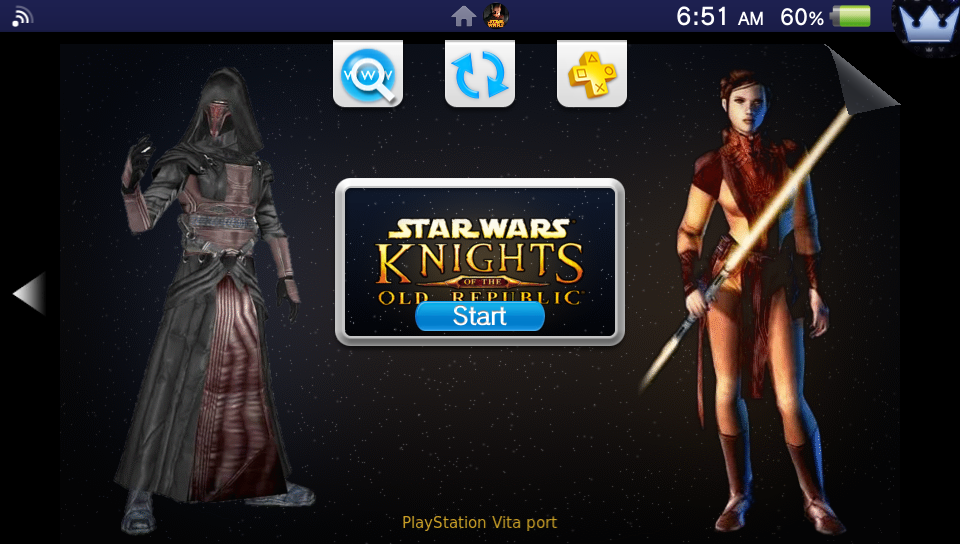
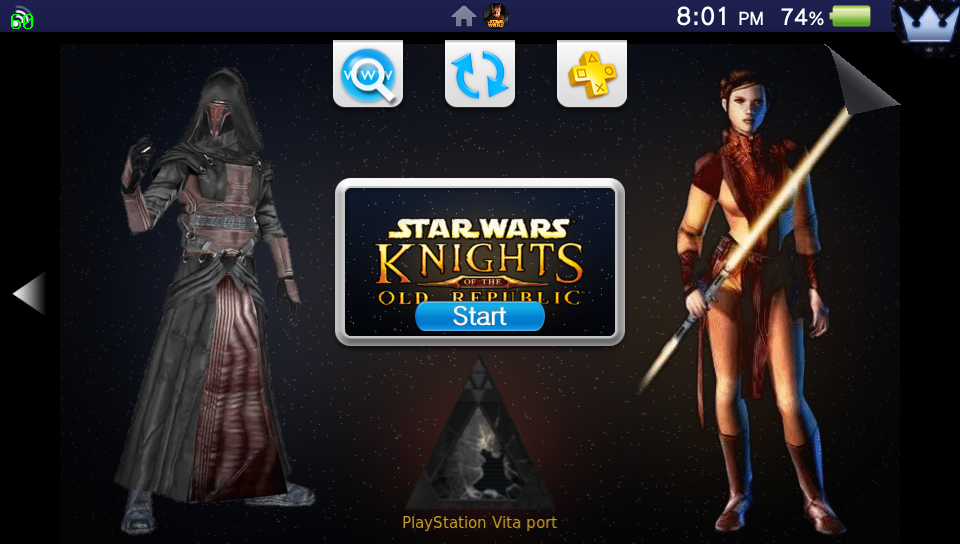
LiveArea: a Sith holocron between the gate and the caption
Cut out of its curtain backdrop and sized to fill the gap under the Start
gate. tools/mklivearea.sh reads it from apk/livearea/holocron.png like the
other character art. The README screenshot is retaken on hardware.

diff --git a/README.md b/README.md
@@ -17,7 +17,7 @@ with a from-scratch FMOD audio implementation over `sceAudiodec` and
 ## Screenshots
 
 <p align="center">
-  <img src="docs/screenshots/livearea.png" width="49%" alt="The VitaKotor LiveArea, with Revan and Bastila either side of the Start gate">
+  <img src="docs/screenshots/livearea.png" width="49%" alt="The VitaKotor LiveArea, with Revan and Bastila either side of the Start gate and a Sith holocron below it">
   <img src="docs/screenshots/rancor.png" width="49%" alt="The rancor on Taris, running on a PlayStation Vita">
 </p>
 
